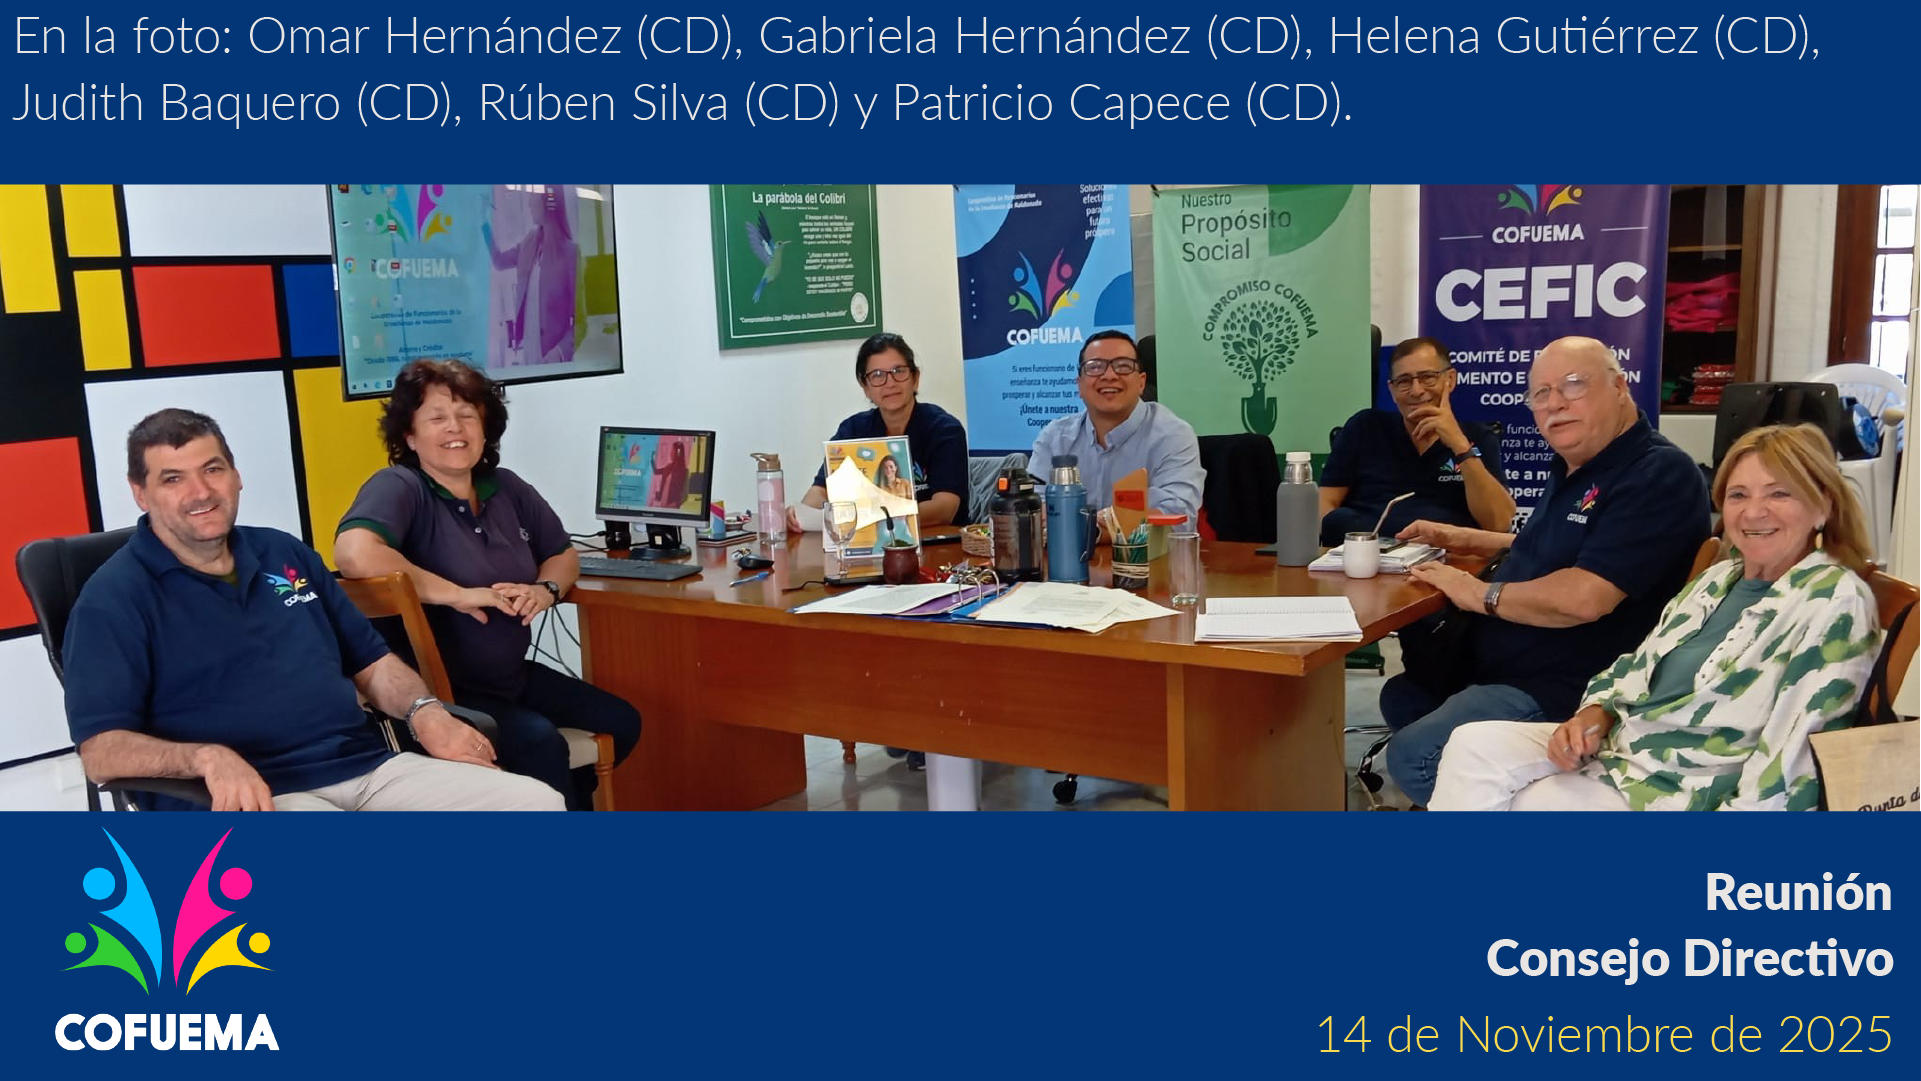
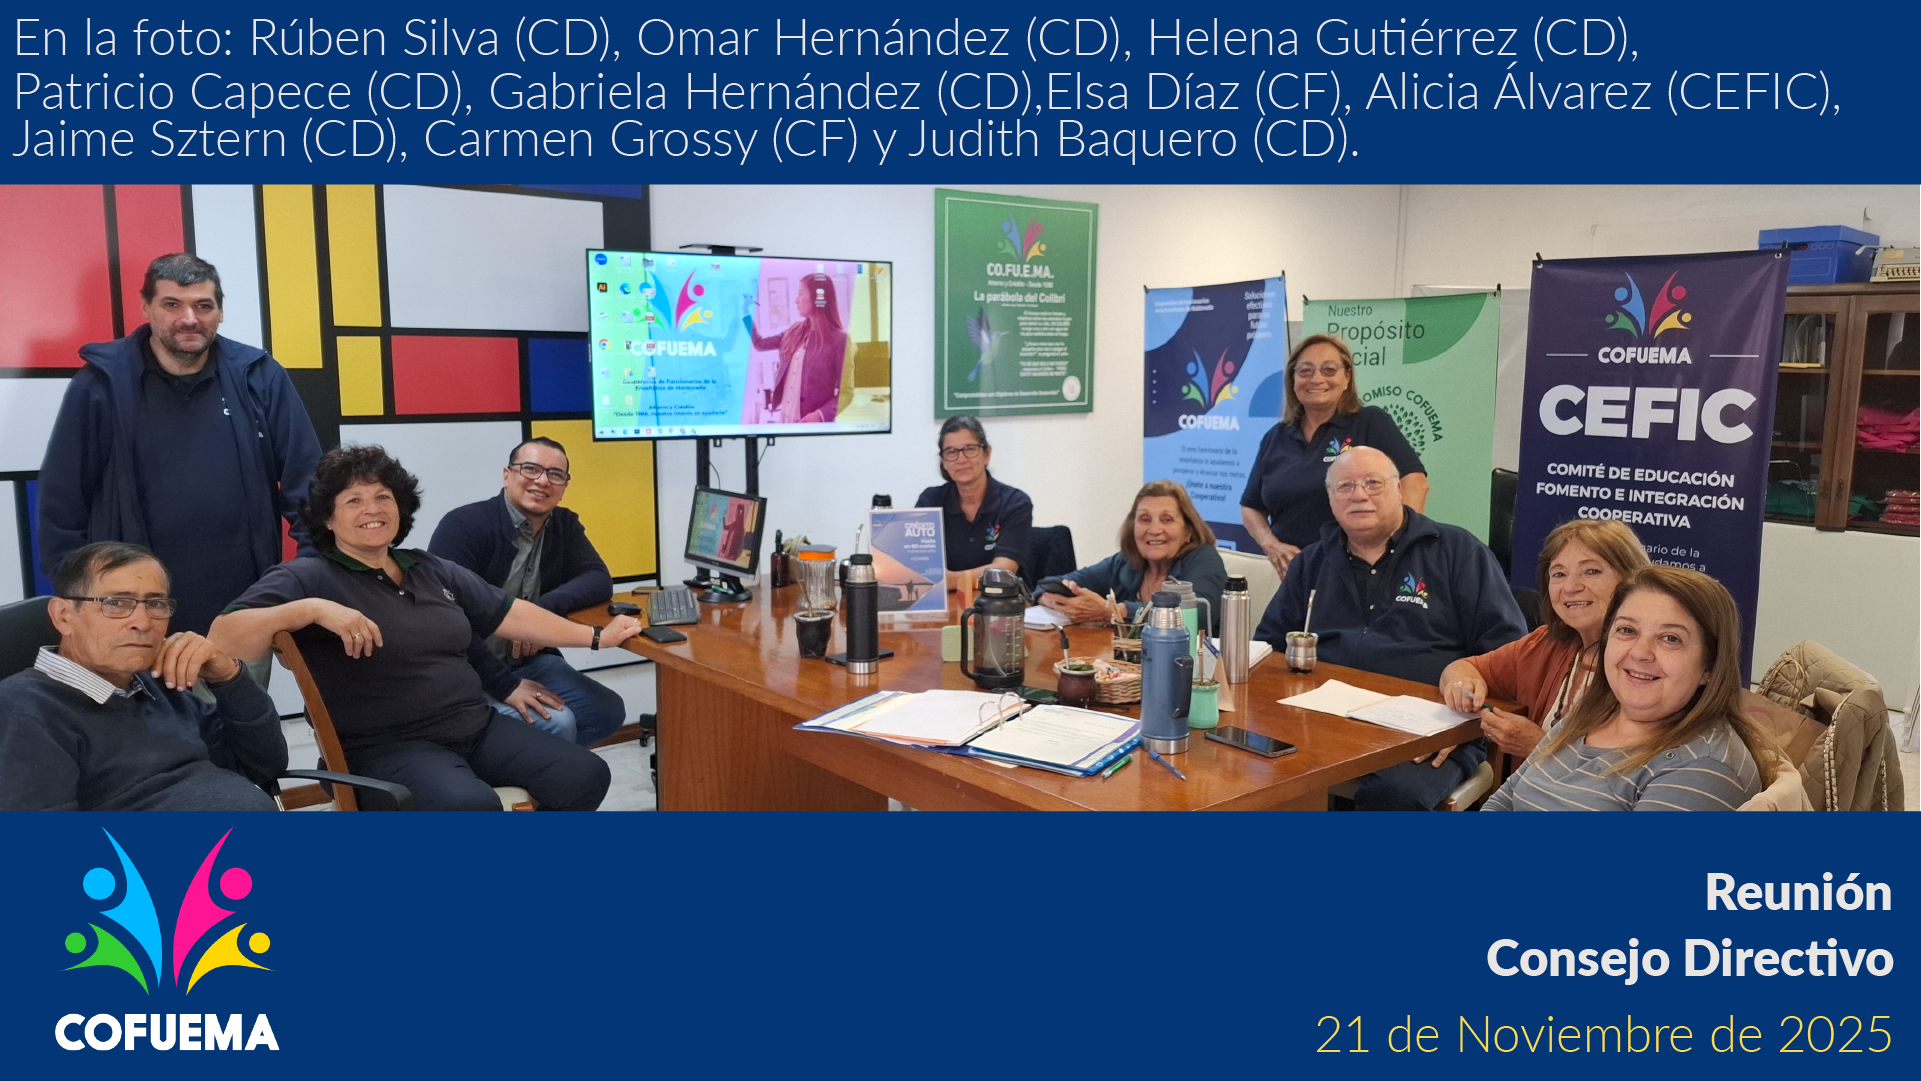
Lucas 21-11

diff --git a/scripts.js b/scripts.js
@@ -1,10 +1,12 @@
 let images = [
     'imagenes/imagen43.png',
     'imagenes/imagen2.png',
+    'imagenes/imagen1.png',
     'imagenes/imagen34.png',
     'imagenes/imagen10.png',
     'imagenes/imagen53.png',
     'imagenes/imagen54.png',
+    'imagenes/imagen16.png',
     'imagenes/imagen24.png',
     'imagenes/imagen41.png',
     'imagenes/imagen30.png',
